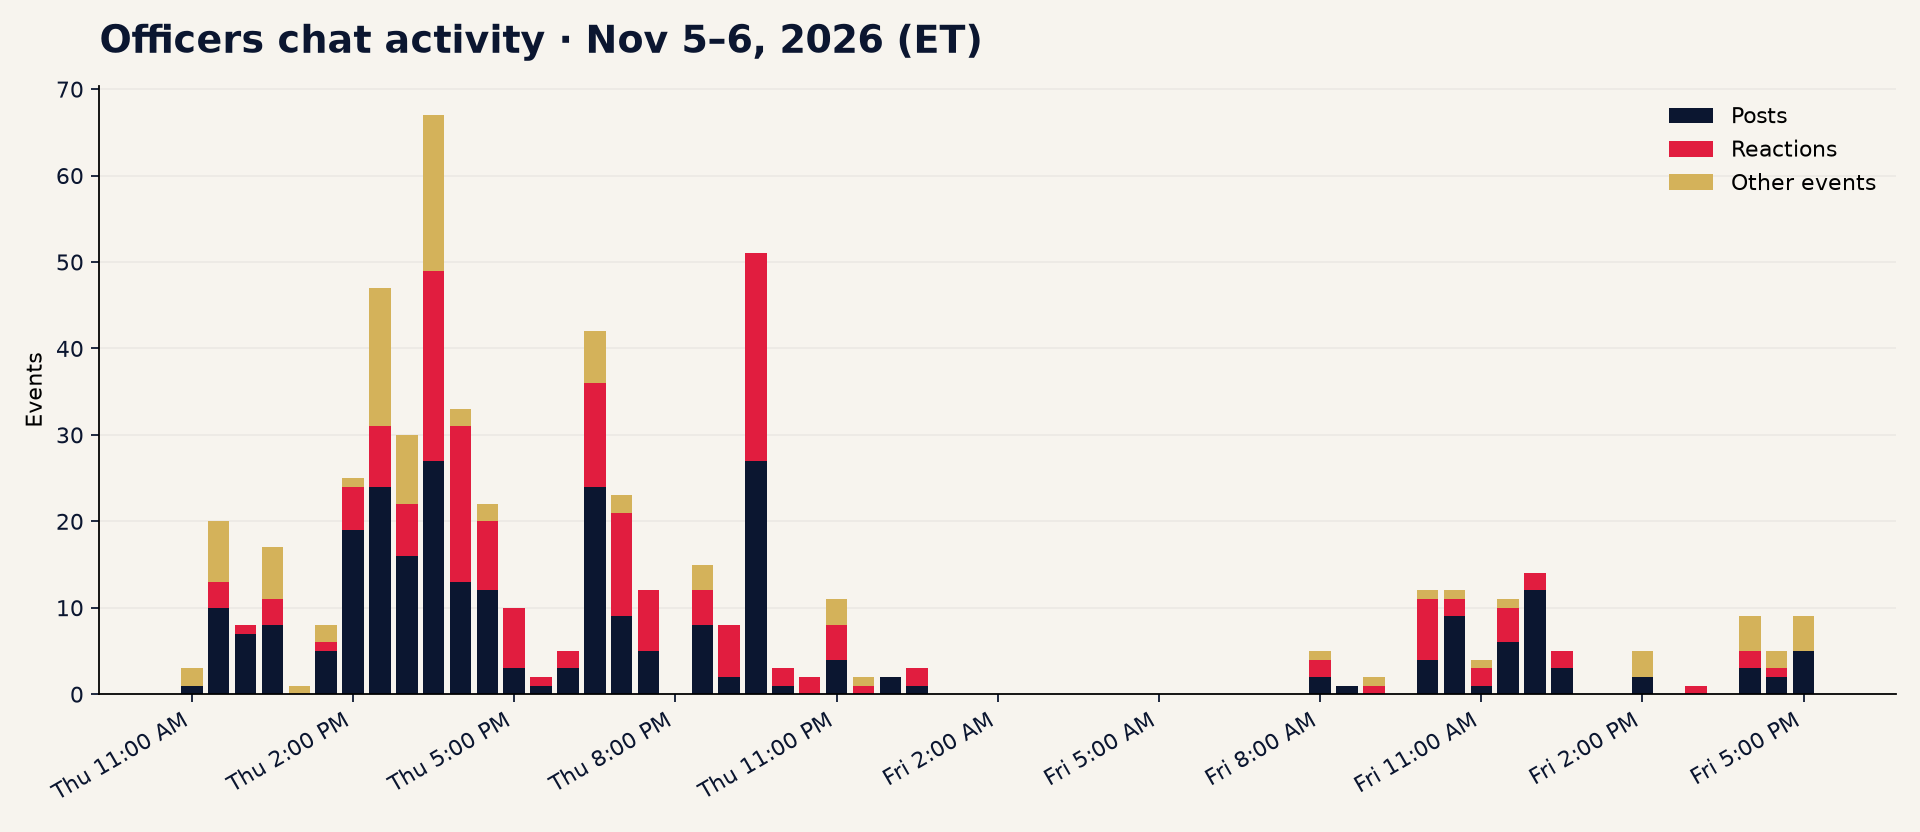
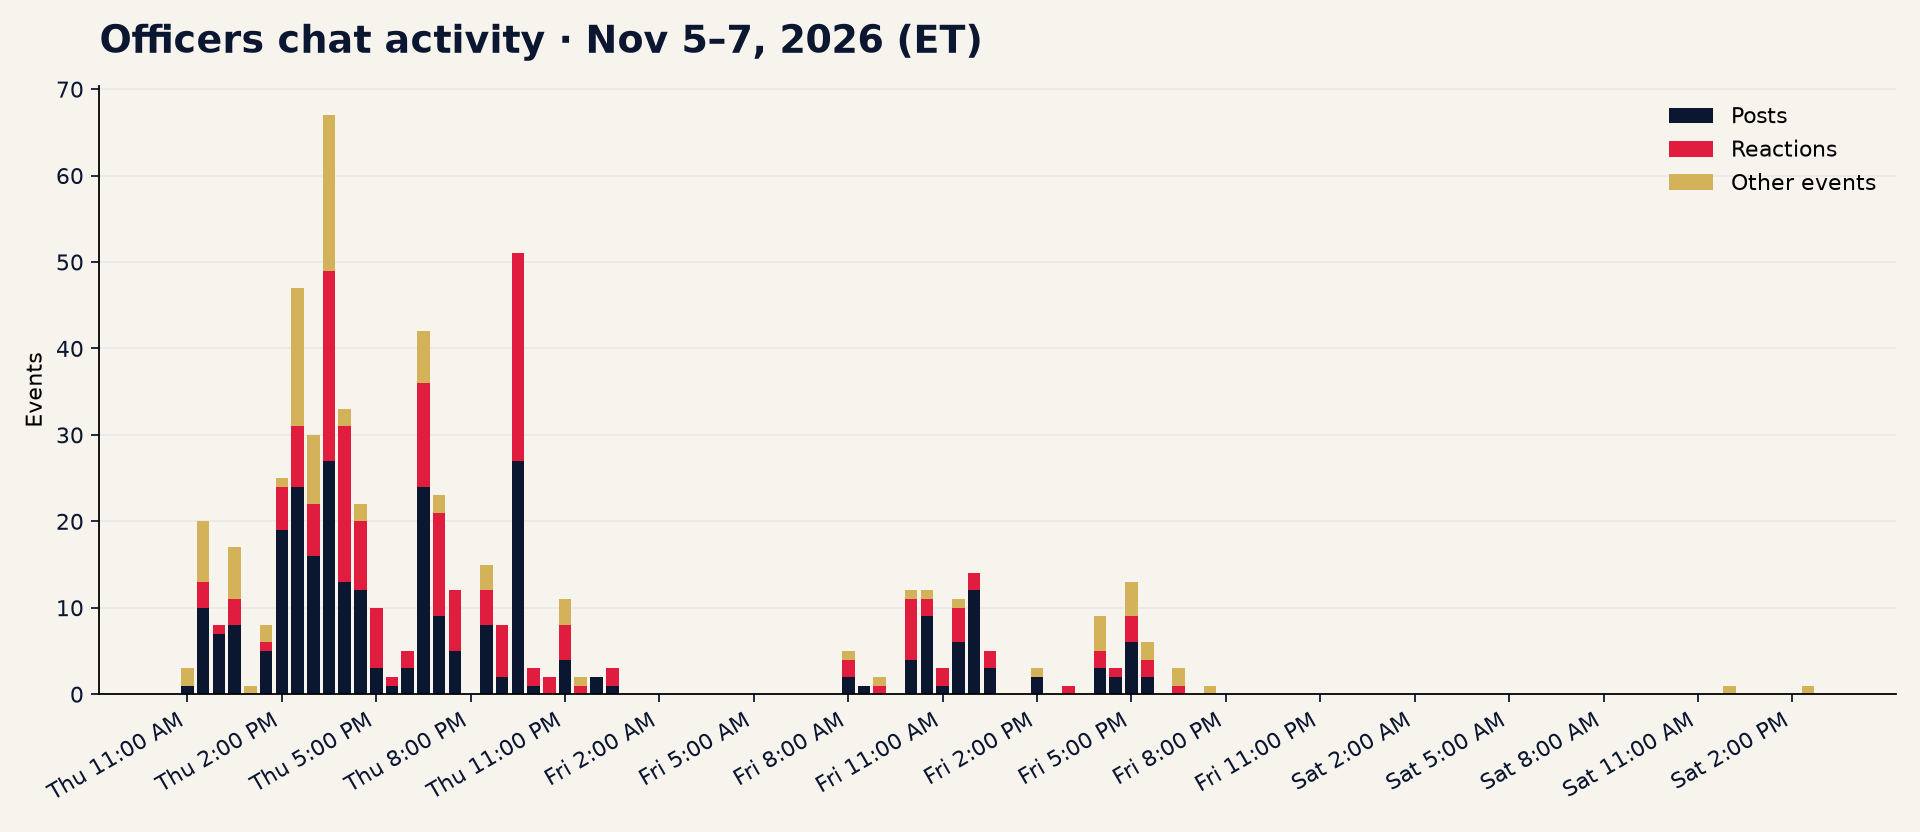
Refresh America Party recap through Sat Nov 7, 2:52 PM ET
Update the officers snapshot to 578 events and 285 posts, record that the last post was Fri Nov 6 at 5:48 PM ET, and replace the three chart images.

Changed region(s): [[0.0312, 0.125, 0.625, 0.9688], [0.625, 0.6875, 0.9688, 0.9688], [0.375, 0.0312, 0.4062, 0.0625]]

diff --git a/america-party/index.html b/america-party/index.html
@@ -7,18 +7,18 @@
 <link rel="preconnect" href="https://fonts.gstatic.com" crossorigin>
 <link href="https://fonts.googleapis.com/css2?family=Archivo+Black&family=Manrope:wght@400;500;700;800&display=swap" rel="stylesheet">
 <title>America Party · Officers Recap</title>
-<meta name="description" content="America Party Officers X Chat recap through Fri Nov 6, 5:04 PM ET, 2026 — earlier 13-plank discussion draft (not the revised text and not adopted), conversation summary, charts, and branding imagery from Thu Nov 5, 11:28 AM ET.">
+<meta name="description" content="America Party Officers X Chat recap through Sat Nov 7, 2:52 PM ET, 2026 — earlier 13-plank discussion draft (not the revised text and not adopted), conversation summary, charts, and branding imagery from Thu Nov 5, 11:28 AM ET. Last post Fri Nov 6, 5:48 PM ET.">
 <meta property="og:type" content="website">
 <meta property="og:site_name" content="America Party">
 <meta property="og:url" content="https://titaniumtomp.github.io/america-party/">
 <meta property="og:title" content="America Party · Officers Recap">
-<meta property="og:description" content="Officers chat through Fri Nov 6, 5:04 PM ET. Earlier 13-plank discussion draft, not the revised text and not adopted.">
+<meta property="og:description" content="Officers chat through Sat Nov 7, 2:52 PM ET. Last post Fri Nov 6, 5:48 PM ET. Earlier 13-plank discussion draft, not the revised text and not adopted.">
 <meta property="og:image" content="https://titaniumtomp.github.io/america-party/assets/og-share-v2.jpg">
 <meta property="og:image:width" content="1200">
 <meta property="og:image:height" content="630">
 <meta name="twitter:card" content="summary_large_image">
 <meta name="twitter:title" content="America Party · Officers Recap">
-<meta name="twitter:description" content="Officers chat through Fri Nov 6, 5:04 PM ET. Earlier 13-plank discussion draft, not the revised text and not adopted.">
+<meta name="twitter:description" content="Officers chat through Sat Nov 7, 2:52 PM ET. Last post Fri Nov 6, 5:48 PM ET. Earlier 13-plank discussion draft, not the revised text and not adopted.">
 <meta name="twitter:image" content="https://titaniumtomp.github.io/america-party/assets/og-share-v2.jpg">
 <style>
 :root{--bg:#0a0e14;--bg2:#10151d;--card:#1a2230;--line:rgba(255,255,255,.09);--ink:#f4f6fb;--mut:#a7b3c9;--red:#e11d3f;--red2:#ff4d6a;--blue:#3b6cff;--trim:#d4b25a;
@@ -134,7 +134,7 @@ footer::before{content:"";display:block;width:90px;height:4px;margin:0 auto 18px
     <p class="lede">The public bot page still shows an earlier thirteen-plank draft, with each core idea kept separate from proposed wording. It is not the revised text Tim pointed to on Friday afternoon, and it is not an adopted platform.</p>
     <div class="notice" role="note">
       <strong>Draft, not adopted.</strong>
-      This public draft page still contains the earlier thirteen-plank version. At 4:39 PM ET on Nov 6, Tim said the revised platform is in the Google Doc pinned that morning. The newer document has not been reviewed here. These planks are retained as an earlier discussion draft, not the latest agreed text or an adopted platform.
+      This public draft page still has the earlier thirteen-plank version. On Nov 6 Tim said the revised platform is in the Google Doc pinned that morning, and his bot is kept separate from the group. The revised document has not been reviewed here.
     </div>
     <div class="planks">
       <article class="plank card">
@@ -229,43 +229,50 @@ footer::before{content:"";display:block;width:90px;height:4px;margin:0 auto 18px
         <p class="wording">Make defending the country and protecting Americans the first priorities of national defense. Use diplomacy to address disputes and weigh military commitments against a clear purpose, costs, and an exit plan. Open choices: alliance obligations, standards for using force, and defense spending priorities.</p>
       </article>
     </div>
-    <p class="source-note">Public page, unchanged since morning: <a href="https://america-first-platform-draft-3yrc.pages.grok.bot/" rel="noopener">America First platform draft</a>. Tim said the revised wording is in the <a href="https://docs.google.com/document/d/1QWv5W0Yg4xyRLqIhaS4TTGW-DyFi7Thc6Z9l4STFXfY/edit" rel="noopener">Google Doc pinned Friday morning</a>. That document has not been reviewed for this recap.</p>
+    <p class="source-note">Public page, still the same thirteen planks as Friday: <a href="https://america-first-platform-draft-3yrc.pages.grok.bot/" rel="noopener">America First platform draft</a>. Tim said the revised wording is in the <a href="https://docs.google.com/document/d/1QWv5W0Yg4xyRLqIhaS4TTGW-DyFi7Thc6Z9l4STFXfY/edit" rel="noopener">Google Doc pinned Friday morning</a>. That document has not been reviewed for this recap.</p>
   </section>
 
   <section class="panel reveal" id="summary">
     <span class="eyebrow">Officers chat</span>
     <h2>Session summary</h2>
-    <p class="lede">Full current snapshot of the America Party Officers chat, Thu Nov 5, 11:28:34 AM ET through Fri Nov 6, 5:04:58 PM ET: <strong>567</strong> events and <strong>282</strong> posts, replies, and media. Eighty-seven events in this snapshot (47 of them posts) are timestamped after the previous 9:26:20 AM ET cutoff. These totals are the snapshot itself, not a simple add-on to the morning count. Tone: energetic, informal, and still very much in draft mode.</p>
-    <div class="stats"><span class="chip red">Thu–Fri · Nov 5–6, 2026</span><span class="chip"><strong>567</strong> events</span><span class="chip"><strong>282</strong> posts</span><span class="chip"><strong>186</strong> reactions</span><span class="chip">11:28 AM Thu–5:04 PM Fri ET</span></div>
-    <p>Of those 567 events, 282 are posts, replies, or media, 186 are reactions, 7 are edits, and 92 are other events. The available history in this snapshot was read through to the end. Friday afternoon added a naming moment, a warning that the popularity exercise used the old plank page, and a pitch to keep the appeal broad. None of that is a registration, a poll, or an adopted platform.</p>
+    <p class="lede">Full current snapshot of the America Party Officers chat, Thu Nov 5, 11:28:34 AM ET through Sat Nov 7, 2:52:03 PM ET: <strong>578</strong> events and <strong>285</strong> posts, replies, and media. The last event, at 2:52 PM Saturday, is a read receipt. The last post was Fri Nov 6, 5:48:35 PM ET. Seventeen events fall after the previous Fri 5:04:58 PM ET cutoff: 3 posts, 6 reactions, and 8 read receipts. Six event IDs from Friday’s snapshot no longer appear, so 578 is this snapshot’s total, not 567 plus 17. Tone: energetic, informal, and still very much in draft mode.</p>
+    <div class="stats"><span class="chip red">Thu–Sat · Nov 5–7, 2026</span><span class="chip"><strong>578</strong> events</span><span class="chip"><strong>285</strong> posts</span><span class="chip"><strong>192</strong> reactions</span><span class="chip">11:28 AM Thu–2:52 PM Sat ET</span><span class="chip">Last post Fri 5:48 PM ET</span></div>
+    <p>Of those 578 events, 285 are posts, replies, or media, 192 are reactions, 7 are edits, and 94 are other events. The available history in this snapshot was read through to the end. Friday afternoon still holds the naming moment, the warning that the popularity exercise used the old plank page, and the pitch to keep the appeal broad. What landed after 5:04 PM ET is the short update below. None of that is a registration, a poll, or an adopted platform.</p>
     <h3 class="sub">Main threads</h3>
     <ul class="threads">
       <li class="card"><strong>America Party it is — with a late naming wrinkle</strong><span>Logo and slogan tries from Thursday are still on the table: Tim’s concepts, Ben’s red-white-and-blue eagle with a purple shield (he called it a temporary logo), and Jason’s “Free to Succeed. Fair for All.” poster tweak. Slogan tries included “The party that brings people together,” “One country. Core values. Term limits.,” “One Country. Abundance for All.,” “Free to succeed. Fair for all.,” and “Personal Freedom, Shared Prosperity.” On Friday the name itself got a turn: “America First,” “America Party,” “The America Party,” and “America’s Party” were floated. By 11:53 AM ET, Ben called <b>America Party</b> official after the chat’s informal endorsements, including Tim and Tom. That is an internal naming decision, not proof of registration. Devo later floated “Unite,” concerned that an America-branded name might be mistaken for MAGA alignment. No final slogan or new artwork was selected.</span></li>
       <li class="card"><strong>Principles &amp; platform</strong><span>Shared starting points: clean energy, domestic manufacturing, constitutional rights, fiscal responsibility, and unity. Devo asked for statesmanship, working across the aisle, and respect in disagreement; Tim agreed on respect but said core values should not be compromised. Jason asked that healthcare be in the draft (Tim said he added it) and called term limits non-negotiable. Others backed term limits, fair pay with controls, and no insider trading in Congress.</span></li>
       <li class="card"><strong>Immigration &amp; civic ideas</strong><span>Devo suggested a competitive legal pathway to citizenship with yearly job-category quotas. Jason supported legal immigration and thought competition could help. Ben favored faster tracks for entrepreneurs and hard workers, with later check-ins. Serious crime was discussed as jail and/or deportation. A later idea was nationwide voter ID. None of these were adopted.</span></li>
       <li class="card"><strong>Tax &amp; spending</strong><span>In the evening Ben sketched a broader tax-reform idea: equal federal tax treatment across states, a goods purchase tax, the same registration rules, ending property tax, no tax on already-taxed used items, no Social Security or pension tax, and no tax on assets after retirement. Jason joked about no tax on tips. The group talked about stopping excessive spending, applying a DOGE-style mandate at every level of government, and how hard it will be to balance the budget while debt exceeds GDP. Devo noted the last surplus was about twenty years ago and brief. Tim said if the goal is to save America, spending has to come under control even though it is hard. None of this was adopted.</span></li>
-      <li class="card"><strong>Put the planks through a popularity test — on the old draft</strong><span>Devo proposed checking whether each plank could appeal to a broad majority of US residents, on the order of 60–80%. Tom asked Grok to try it using this recap. Grok’s rough reply put ethics reforms, term limits, care-price transparency, rights, and some border and crime language in a stronger bucket, and warned about the national sales tax and the state-level abortion plank. That was an unsourced in-chat estimate. It is not a poll, not a verified support measurement, and not what the charts below show. At 4:39 PM ET Tim pointed out the exercise used the old platform: his revised platform is the Google Doc pinned that morning. The newer document has not been reviewed here.</span></li>
-      <li class="card"><strong>Keep the message broad</strong><span>Near 5 PM ET, Ben proposed avoiding MAGA branding or alliance and appealing across party lines, especially to centrists. He also proposed alignment with <a href="https://x.com/america">@america</a>. The chat records a proposal, not a group agreement, a formal partnership, or an endorsement.</span></li>
-      <li class="card"><strong>Source sync is the next useful move</strong><span>The public bot page this recap reads is unchanged: still the earlier thirteen planks. At 5:04 PM ET Tom asked whether Tim’s bot page was still being updated, because the scraper reads that page. No reply is in this snapshot. That explains the mismatch. It does not show a new adopted platform. Thursday evening and Friday morning Tim pinned Google Docs, and at 4:39 PM he said the revised text is the Doc pinned that morning. Grok can draft in-chat but cannot publish this site.</span></li>
+      <li class="card"><strong>Put the planks through a popularity test — on the old draft</strong><span>Devo proposed checking whether each plank could appeal to a broad majority of US residents, on the order of 60–80%. Tom asked Grok to try it using this recap. Grok’s rough reply put ethics reforms, term limits, care-price transparency, rights, and some border and crime language in a stronger bucket, and warned about the national sales tax and the state-level abortion plank. Those were unsourced in-chat AI guesses about the old draft. They are not polling, not a verified support measurement, and not what the charts below show. At 4:39 PM ET Tim pointed out the exercise used the old platform: his revised platform is the Google Doc pinned that morning. The newer document has not been reviewed here.</span></li>
+      <li class="card"><strong>Keep the message broad</strong><span>Near 5 PM ET, Ben proposed avoiding MAGA branding or alliance and appealing across party lines, especially to centrists. He also proposed alignment with <a href="https://x.com/america">@america</a>. That afternoon message was a proposal. Tim’s agreement came after the 5:04 PM ET cutoff and is in the update below. It is positioning in the chat, not a formal resolution, a partnership, or an endorsement.</span></li>
+      <li class="card"><strong>Source sync is the next useful move</strong><span>The public bot page this recap reads is unchanged: still the earlier thirteen planks. At 5:04 PM ET Tom asked whether Tim’s bot page was still being updated, because the scraper reads that page. Tim answered after that cutoff: the bot stays separate, and nobody confirmed the public draft page would be synced. That explains the mismatch. It does not show a new adopted platform. Thursday evening and Friday morning Tim pinned Google Docs, and at 4:39 PM he said the revised text is the Doc pinned that morning. Grok can draft in-chat but cannot publish this site.</span></li>
     </ul>
+    <h3 class="sub">New since Friday, 5:04 PM ET</h3>
+    <ul class="threads">
+      <li class="card"><strong>Agree to disagree, and vote on it</strong><span>Right after Friday’s scrape, Ben said members won’t agree on everything and that’s fine: disagreements go to discussion and a vote. He added that “anything is better than the two options we have right now.” Tom, Jason, and Devo reacted 💯/👍.</span></li>
+      <li class="card"><strong>Not MAGA</strong><span>Tim agreed with Friday’s push to keep the party clear of MAGA branding: “We are America First, not MAGA.” Ben 👍’d it. This is the chat agreeing on positioning, not a formal resolution. Tim said “America First” here. The internal name chosen Friday morning was “America Party.” That phrase is not a renaming.</span></li>
+      <li class="card"><strong>Tim’s bot stays separate</strong><span>Tom asked whether Tim’s bot page is still being updated. Tim’s answer: his bot is kept separate from the group, and he can ask it to jump in with updates and next steps. Nobody confirmed that the public draft page would be synced.</span></li>
+    </ul>
+    <p>Then the chat went quiet. There have been no posts since Fri 5:48 PM ET. Saturday activity is only read receipts, and Sunday and Monday morning have no events.</p>
   </section>
 
   <section class="panel reveal" id="charts">
     <span class="eyebrow">Data</span>
     <h2>Charts</h2>
-    <p class="mut">Actual counts from the current snapshot, Thu Nov 5, 11:28 AM ET through Fri Nov 6, 5:04 PM ET. These are message and event counts, not polls or support levels.</p>
+    <p class="mut">Actual counts from the current snapshot, Thu Nov 5, 11:28 AM ET through Sat Nov 7, 2:52 PM ET. The last post was Fri Nov 6, 5:48 PM ET. These are message and event counts, not polls or support levels.</p>
     <div class="charts grid-2">
       <figure class="chart card">
-        <img src="assets/activity-over-time.png?v=20261106-1704" alt="Officers chat activity in 30-minute bins from Thursday November 5 through 5:04 PM ET Friday November 6, with posts, reactions, and other events" loading="lazy" width="1920" height="832">
-        <figcaption>Activity over time — actual event counts in 30-minute bins through 5:04 PM ET Friday. Posts, reactions, and other events.</figcaption>
+        <img src="assets/activity-over-time.png?v=20261109-0840" alt="Officers chat activity in 30-minute bins from Thursday November 5 through Saturday November 7, with posts, reactions, and other events" loading="lazy" width="1920" height="832">
+        <figcaption>Activity over time — actual event counts in 30-minute bins from Thu Nov 5 through Sat Nov 7. Posts, reactions, and other events. The last post was Friday evening.</figcaption>
       </figure>
       <figure class="chart card">
-        <img src="assets/top-posters.png?v=20261106-1704" alt="Bar chart of posts, replies, and media by poster, 282 total, reactions and edits excluded" loading="lazy" width="1600" height="864">
-        <figcaption>Top posters — 282 posts, replies, and media. Reactions and edits are excluded. Participation counts only.</figcaption>
+        <img src="assets/top-posters.png?v=20261109-0840" alt="Bar chart of posts, replies, and media by poster, 285 total, reactions and edits excluded" loading="lazy" width="1600" height="864">
+        <figcaption>Top posters — 285 posts, replies, and media. Reactions and edits are excluded. Participation counts only.</figcaption>
       </figure>
       <figure class="chart card">
-        <img src="assets/topic-breakdown.png?v=20261106-1704" alt="Approximate keyword classification of discussion themes by message count, not public support" loading="lazy" width="1760" height="912">
-        <figcaption>Topic breakdown — approximate keyword classification, one category per post. Thirty-eight posts that matched formation or personnel keywords are left out. These bars are message counts, not support levels. The categories and method differ from the morning chart, so this is not a trend comparison.</figcaption>
+        <img src="assets/topic-breakdown.png?v=20261109-0840" alt="Approximate keyword classification of discussion themes by message count, not polling or public support" loading="lazy" width="1760" height="912">
+        <figcaption>Topic breakdown — approximate keyword classification, one topic per post. Thirty-nine posts that matched formation or personnel keywords are left out. These bars are message counts, not support levels or polling.</figcaption>
       </figure>
     </div>
   </section>
@@ -273,7 +280,7 @@ footer::before{content:"";display:block;width:90px;height:4px;margin:0 auto 18px
   <section class="panel reveal" id="imagery">
     <span class="eyebrow">Visuals</span>
     <h2>Branding &amp; chat imagery</h2>
-    <p class="mut">Brand graphics and designs already shared in the officers group. No new artwork landed after the morning cutoff. Credits under each.</p>
+    <p class="mut">Brand graphics and designs already shared in the officers group. No new photos or videos were posted since Friday. Credits under each.</p>
     <figure class="banner-feature card">
       <img src="assets/america-first-banner.png" width="1500" height="500" alt="America First Party wide banner" loading="lazy">
       <figcaption><strong>America First Party banner</strong>Brand graphic · natural 3:1 proportions</figcaption>
@@ -298,10 +305,9 @@ footer::before{content:"";display:block;width:90px;height:4px;margin:0 auto 18px
     <span class="eyebrow">Next steps</span>
     <h2>Action items</h2>
     <ul class="actions">
-      <li class="card">Sync Tim’s public bot draft with the pinned revision, or obtain that revised text through authorized access. This recap has not read the pinned Google Doc.</li>
-      <li class="card">Rerun the appeal check on the revised wording, using traceable research. The in-chat AI guesses are not a poll.</li>
-      <li class="card">Align graphics around the internal America Party name choice, and keep the later “Unite” suggestion as unresolved naming feedback.</li>
-      <li class="card">Continue slogan and design iteration. No new final artwork or slogan was recorded in this snapshot.</li>
+      <li class="card">Ask Tim whether he can sync the public draft page with the revised pinned Doc, or share the revised text. This recap still has not read that document.</li>
+      <li class="card">Once that revised wording is out, rerun the appeal check using traceable sources. Grok’s Friday 60–80% estimates stay AI guesses about the old draft, not polling.</li>
+      <li class="card">Keep graphics aligned on the America Party name, and keep the slogan and design iteration going. No new artwork landed in this snapshot.</li>
     </ul>
   </section>
 
